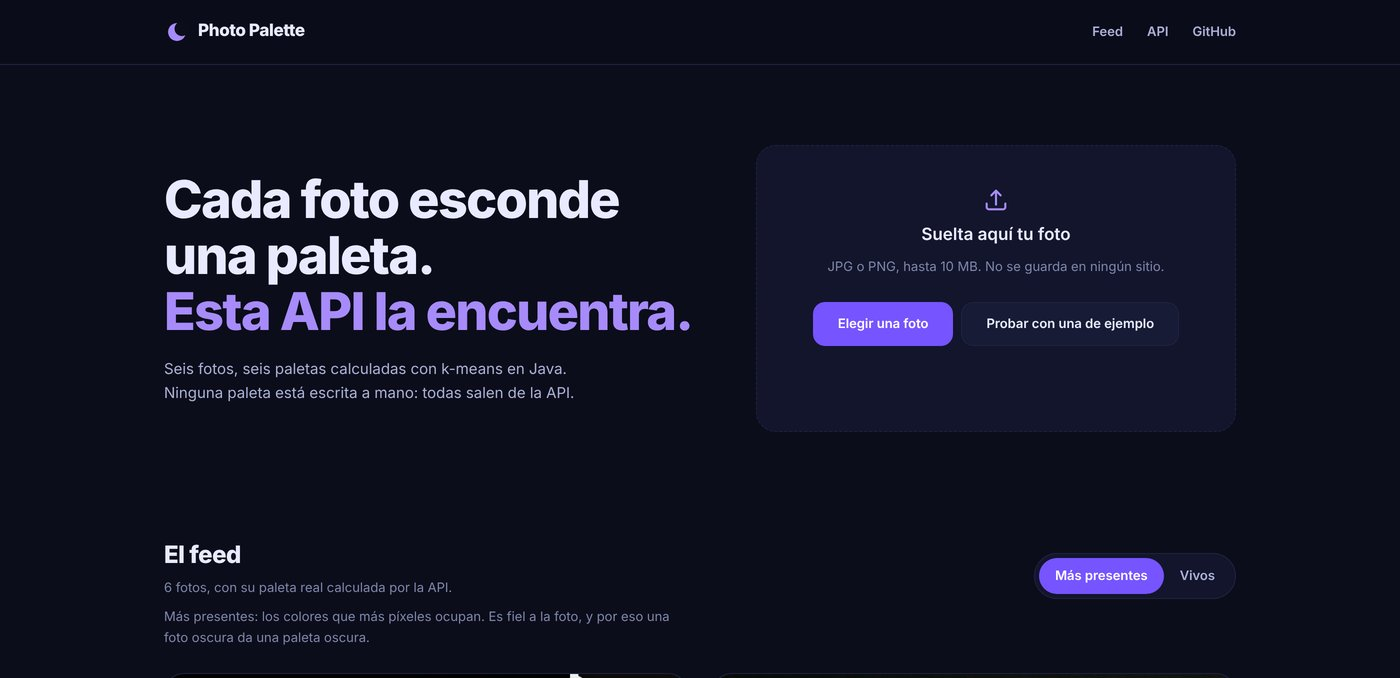
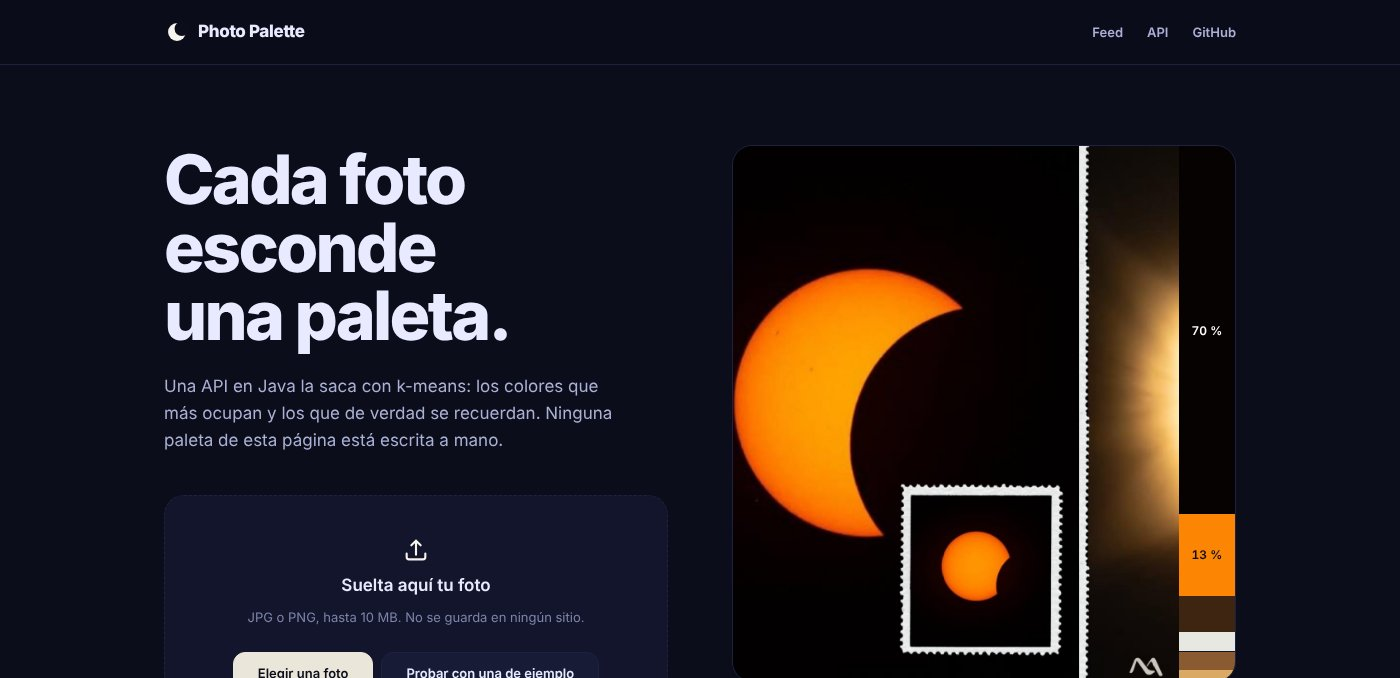
Captura nueva de Photo Palette
La portada ya no es la violeta: ahora enseña el eclipse con su regla de color. Cambio la imagen y su texto alternativo.

diff --git a/README.md b/README.md
@@ -32,7 +32,7 @@ Aplicación de citas para un internista en Palma. Backend con Java 21, Spring Bo
 
 ### [Photo Palette](https://github.com/maragramonte/photo-palette)
 
-<p align="center"><a href="https://maragramonte.github.io/photo-palette/"><img src="assets/projects/photo-palette.jpg" alt="Portada de Photo Palette con la zona para subir una foto y el feed de paletas" width="900"></a></p>
+<p align="center"><a href="https://maragramonte.github.io/photo-palette/"><img src="assets/projects/photo-palette.jpg" alt="Portada de Photo Palette: la foto de un eclipse con una regla de color que mide lo que ocupa cada tono, y debajo sus colores vivos" width="900"></a></p>
 
 API que convierte una foto en una paleta de color lista para una web: HEX, RGB, porcentaje y un bloque `:root` para copiar. Java 21 y Spring Boot 3.5, con k-means escrito a mano y la foto analizada en memoria, sin guardarse.
 
